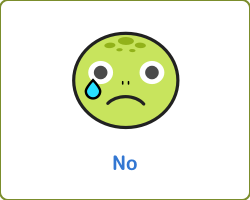
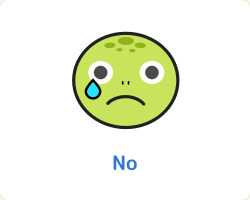
Quiz target img change

Changed region(s): [[0.0, 0.0, 1.0, 1.0]]

diff --git a/src/components/quiz_target.js b/src/components/quiz_target.js
@@ -19,7 +19,7 @@ function collect(connect, monitor) {
 class QuizTarget extends Component {
     render() {
         const { connectDropTarget, hovered, imgFile, optionVal } = this.props;
-        const backgroundColor = hovered ? '#4286f4' : '';
+        const backgroundColor = hovered ? '#4286f4' : 'white';
         return connectDropTarget(
             <img 
                 style={{marginRight: optionVal === 'yes'? 100 : 0 ,backgroundColor, borderRadius: 7}}  
